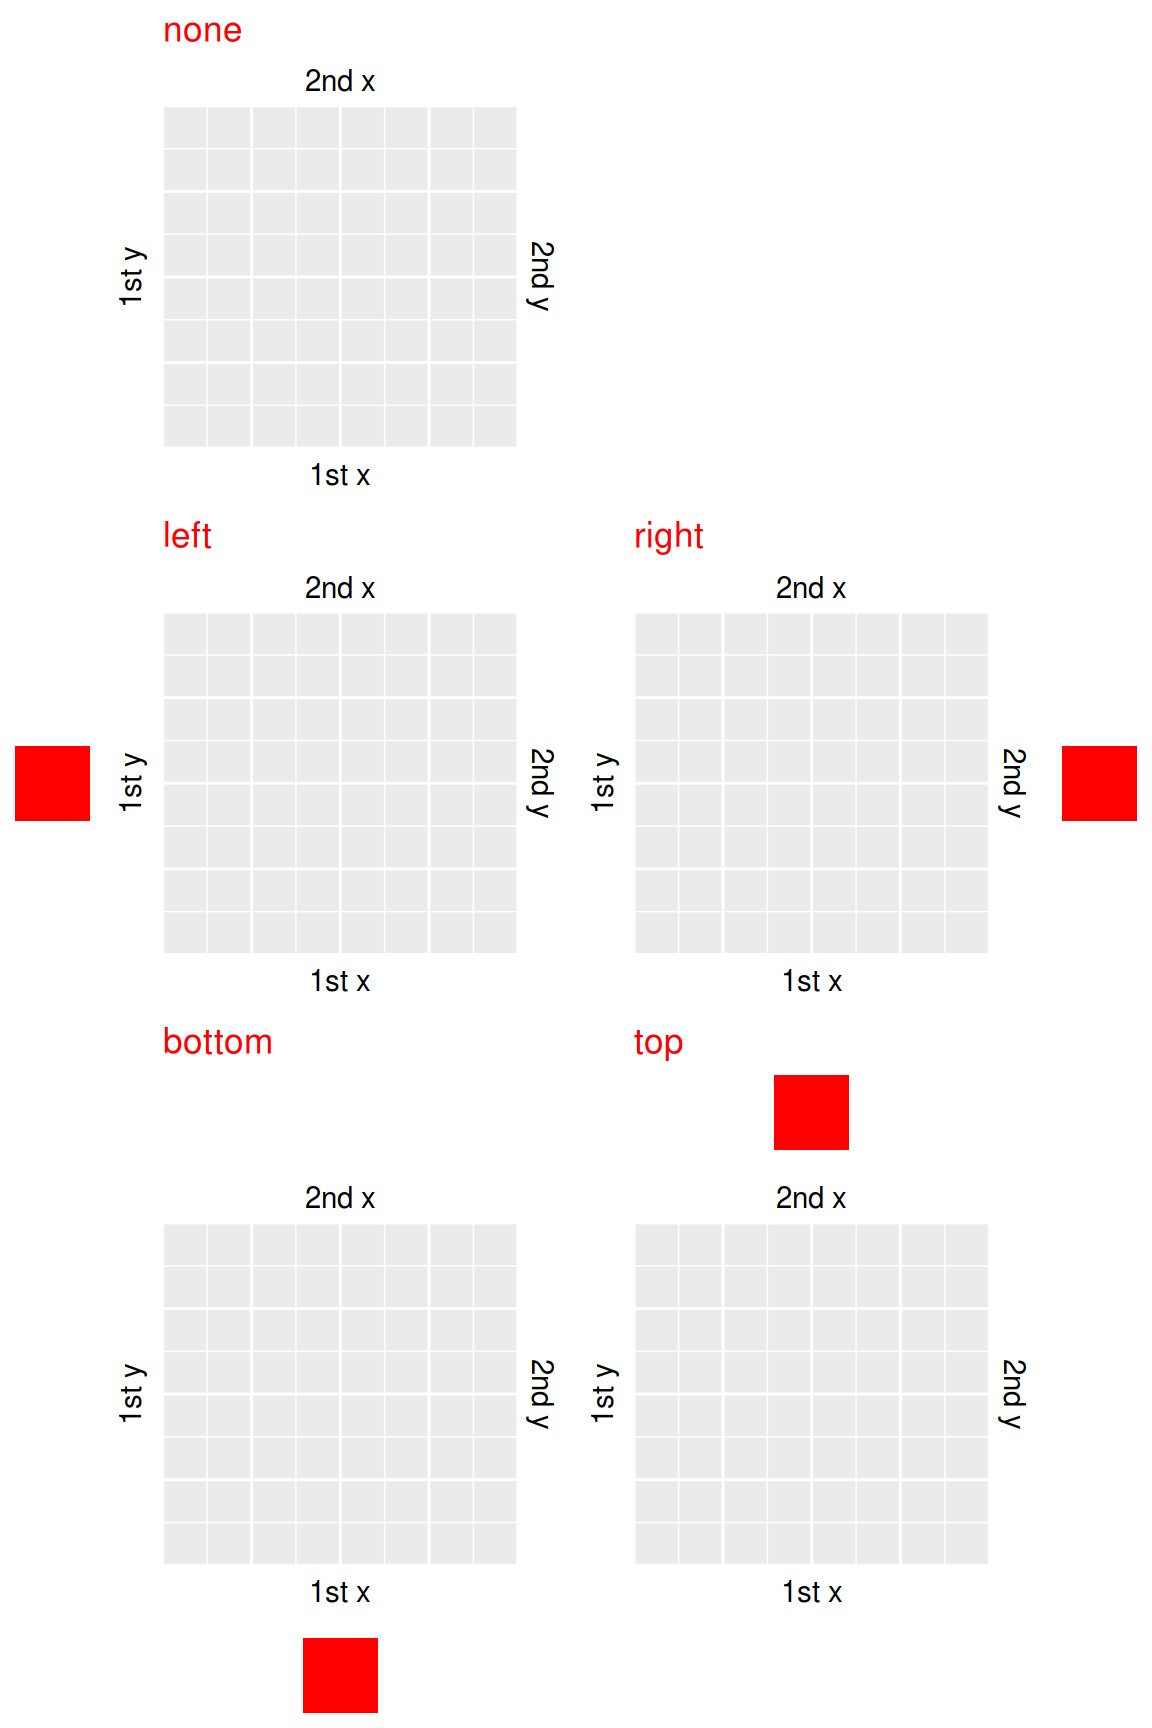
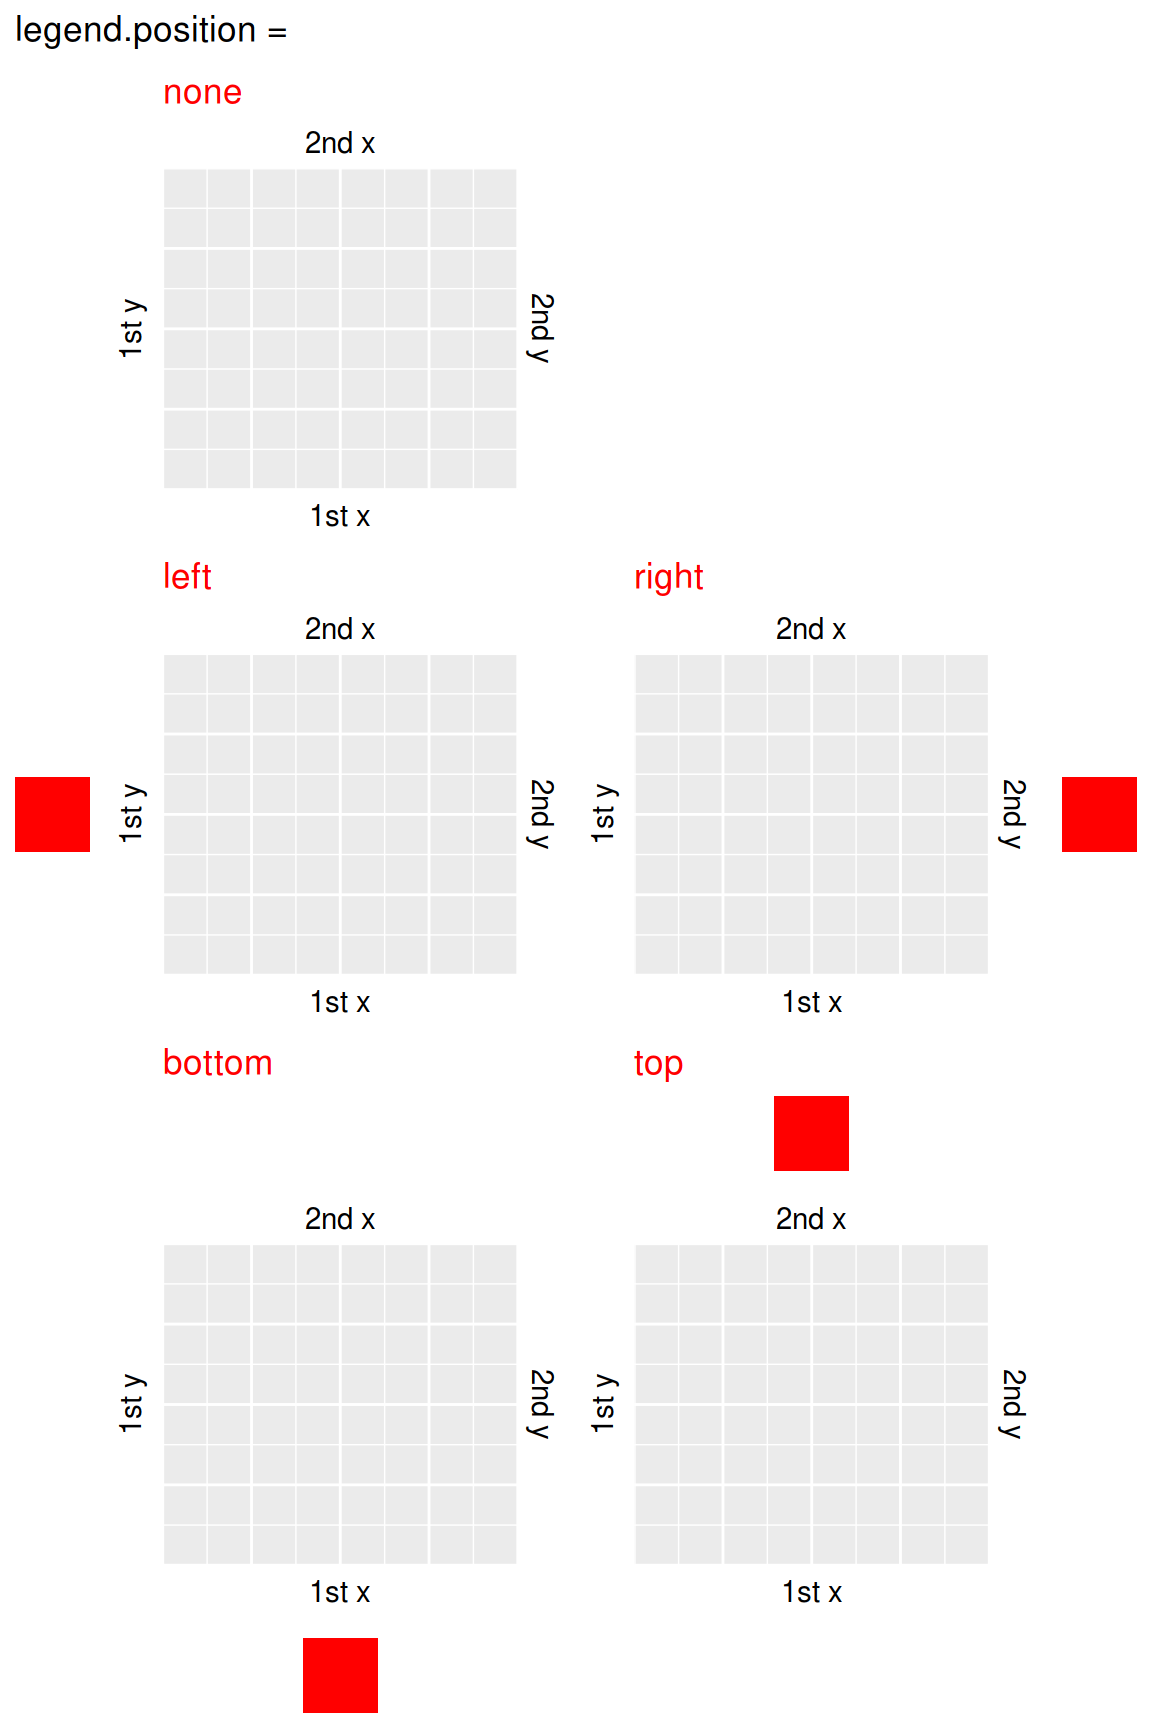
build

diff --git a/docs/2018/11/10/ggplot2-legend-pos-n-just/index.html b/docs/2018/11/10/ggplot2-legend-pos-n-just/index.html
@@ -235,7 +235,8 @@ g</code></pre>
     theme(plot.title = element_text(color = &quot;red&quot;))
   )) %&gt;%
   append(list(plot_spacer()), 1) %&gt;%
-  wrap_plots(nrow = 3)</code></pre>
+  wrap_plots(nrow = 3) +
+  plot_annotation(&#39;legend.position =&#39;)</code></pre>
 <p><img src="../../../../post/2018-11-10-ggplot2-legend-pos-n-just_files/figure-html/unnamed-chunk-3-1.png" width="576" /></p>
 <p><code>purrr::map</code> で図を沢山作りつつ， <code>append</code> を使って空白の図 ( <code>patchwork::plot_spacer()</code> )を挿入するのがキモ．</p>
 <p>数値で相当するpositionを再現する方法は知らない．</p>
@@ -243,10 +244,13 @@ g</code></pre>
 <div id="legend.justification" class="section level3">
 <h3><code>legend.justification</code></h3>
 <p>には文字列で <code>&quot;center&quot;</code> を与えることができ，<code>legend.justification = c(0.5, 0.5)</code> に相当する．</p>
-<pre class="r"><code>g + theme(legend.position = c(1, 1), legend.justification = &quot;center&quot;) + labs(x = &quot;center&quot;, y = &quot;&quot;) |
-g + theme(legend.position = c(1, 1), legend.justification = c(0.5, 0.5)) + labs(x = &quot;c(0.5, 0.5)&quot;, y = &quot;&quot;)</code></pre>
+<pre class="r"><code>wrap_plots(
+  g + theme(legend.position = c(1, 1), legend.justification = &quot;center&quot;) + labs(x = &quot;center&quot;, y = &quot;&quot;),
+  g + theme(legend.position = c(1, 1), legend.justification = c(0.5, 0.5)) + labs(x = &quot;c(0.5, 0.5)&quot;, y = &quot;&quot;),
+  nrow = 1
+) +
+  plot_annotation(&quot;legend.justification = &quot;, caption = &quot;legend.position = c(1, 1)&quot;)</code></pre>
 <p><img src="../../../../post/2018-11-10-ggplot2-legend-pos-n-just_files/figure-html/unnamed-chunk-4-1.png" width="672" /></p>
-<p>Rでは演算子の優先順位として <code>+</code> &gt; <code>|</code> なので，こんなこともできてしまう．</p>
 </div>
 </div>
 </div>
@@ -265,9 +269,9 @@ g + theme(legend.position = c(1, 1), legend.justification = c(0.5, 0.5)) + labs(
         
             <li><a href="../../../../2018/11/09/binwdith-for-geom-histogram/">geom_histogramのビン幅を動的に決定する</a></li>
         
-            <li><a href="../../../../2018/11/03/accelarate-patchwork/">patchworkの表示を高速化したかった……</a></li>
-        
             <li><a href="../../../../2018/11/03/tex-in-ggplot2/">ggplot2で$TeX$を利用する</a></li>
+        
+            <li><a href="../../../../2018/11/03/accelarate-patchwork/">patchworkの表示を高速化したかった……</a></li>
         
             <li><a href="../../../../2018/11/02/marginal-patchwork/">ggplot2とpatchworkで周辺分布</a></li>
         

diff --git a/content/post/2018-11-10-ggplot2-legend-pos-n-just.html b/content/post/2018-11-10-ggplot2-legend-pos-n-just.html
@@ -118,7 +118,8 @@ g</code></pre>
     theme(plot.title = element_text(color = &quot;red&quot;))
   )) %&gt;%
   append(list(plot_spacer()), 1) %&gt;%
-  wrap_plots(nrow = 3)</code></pre>
+  wrap_plots(nrow = 3) +
+  plot_annotation(&#39;legend.position =&#39;)</code></pre>
 <p><img src="/post/2018-11-10-ggplot2-legend-pos-n-just_files/figure-html/unnamed-chunk-3-1.png" width="576" /></p>
 <p><code>purrr::map</code> で図を沢山作りつつ， <code>append</code> を使って空白の図 ( <code>patchwork::plot_spacer()</code> )を挿入するのがキモ．</p>
 <p>数値で相当するpositionを再現する方法は知らない．</p>
@@ -126,10 +127,13 @@ g</code></pre>
 <div id="legend.justification" class="section level3">
 <h3><code>legend.justification</code></h3>
 <p>には文字列で <code>&quot;center&quot;</code> を与えることができ，<code>legend.justification = c(0.5, 0.5)</code> に相当する．</p>
-<pre class="r"><code>g + theme(legend.position = c(1, 1), legend.justification = &quot;center&quot;) + labs(x = &quot;center&quot;, y = &quot;&quot;) |
-g + theme(legend.position = c(1, 1), legend.justification = c(0.5, 0.5)) + labs(x = &quot;c(0.5, 0.5)&quot;, y = &quot;&quot;)</code></pre>
+<pre class="r"><code>wrap_plots(
+  g + theme(legend.position = c(1, 1), legend.justification = &quot;center&quot;) + labs(x = &quot;center&quot;, y = &quot;&quot;),
+  g + theme(legend.position = c(1, 1), legend.justification = c(0.5, 0.5)) + labs(x = &quot;c(0.5, 0.5)&quot;, y = &quot;&quot;),
+  nrow = 1
+) +
+  plot_annotation(&quot;legend.justification = &quot;, caption = &quot;legend.position = c(1, 1)&quot;)</code></pre>
 <p><img src="/post/2018-11-10-ggplot2-legend-pos-n-just_files/figure-html/unnamed-chunk-4-1.png" width="672" /></p>
-<p>Rでは演算子の優先順位として <code>+</code> &gt; <code>|</code> なので，こんなこともできてしまう．</p>
 </div>
 </div>
 </div>
